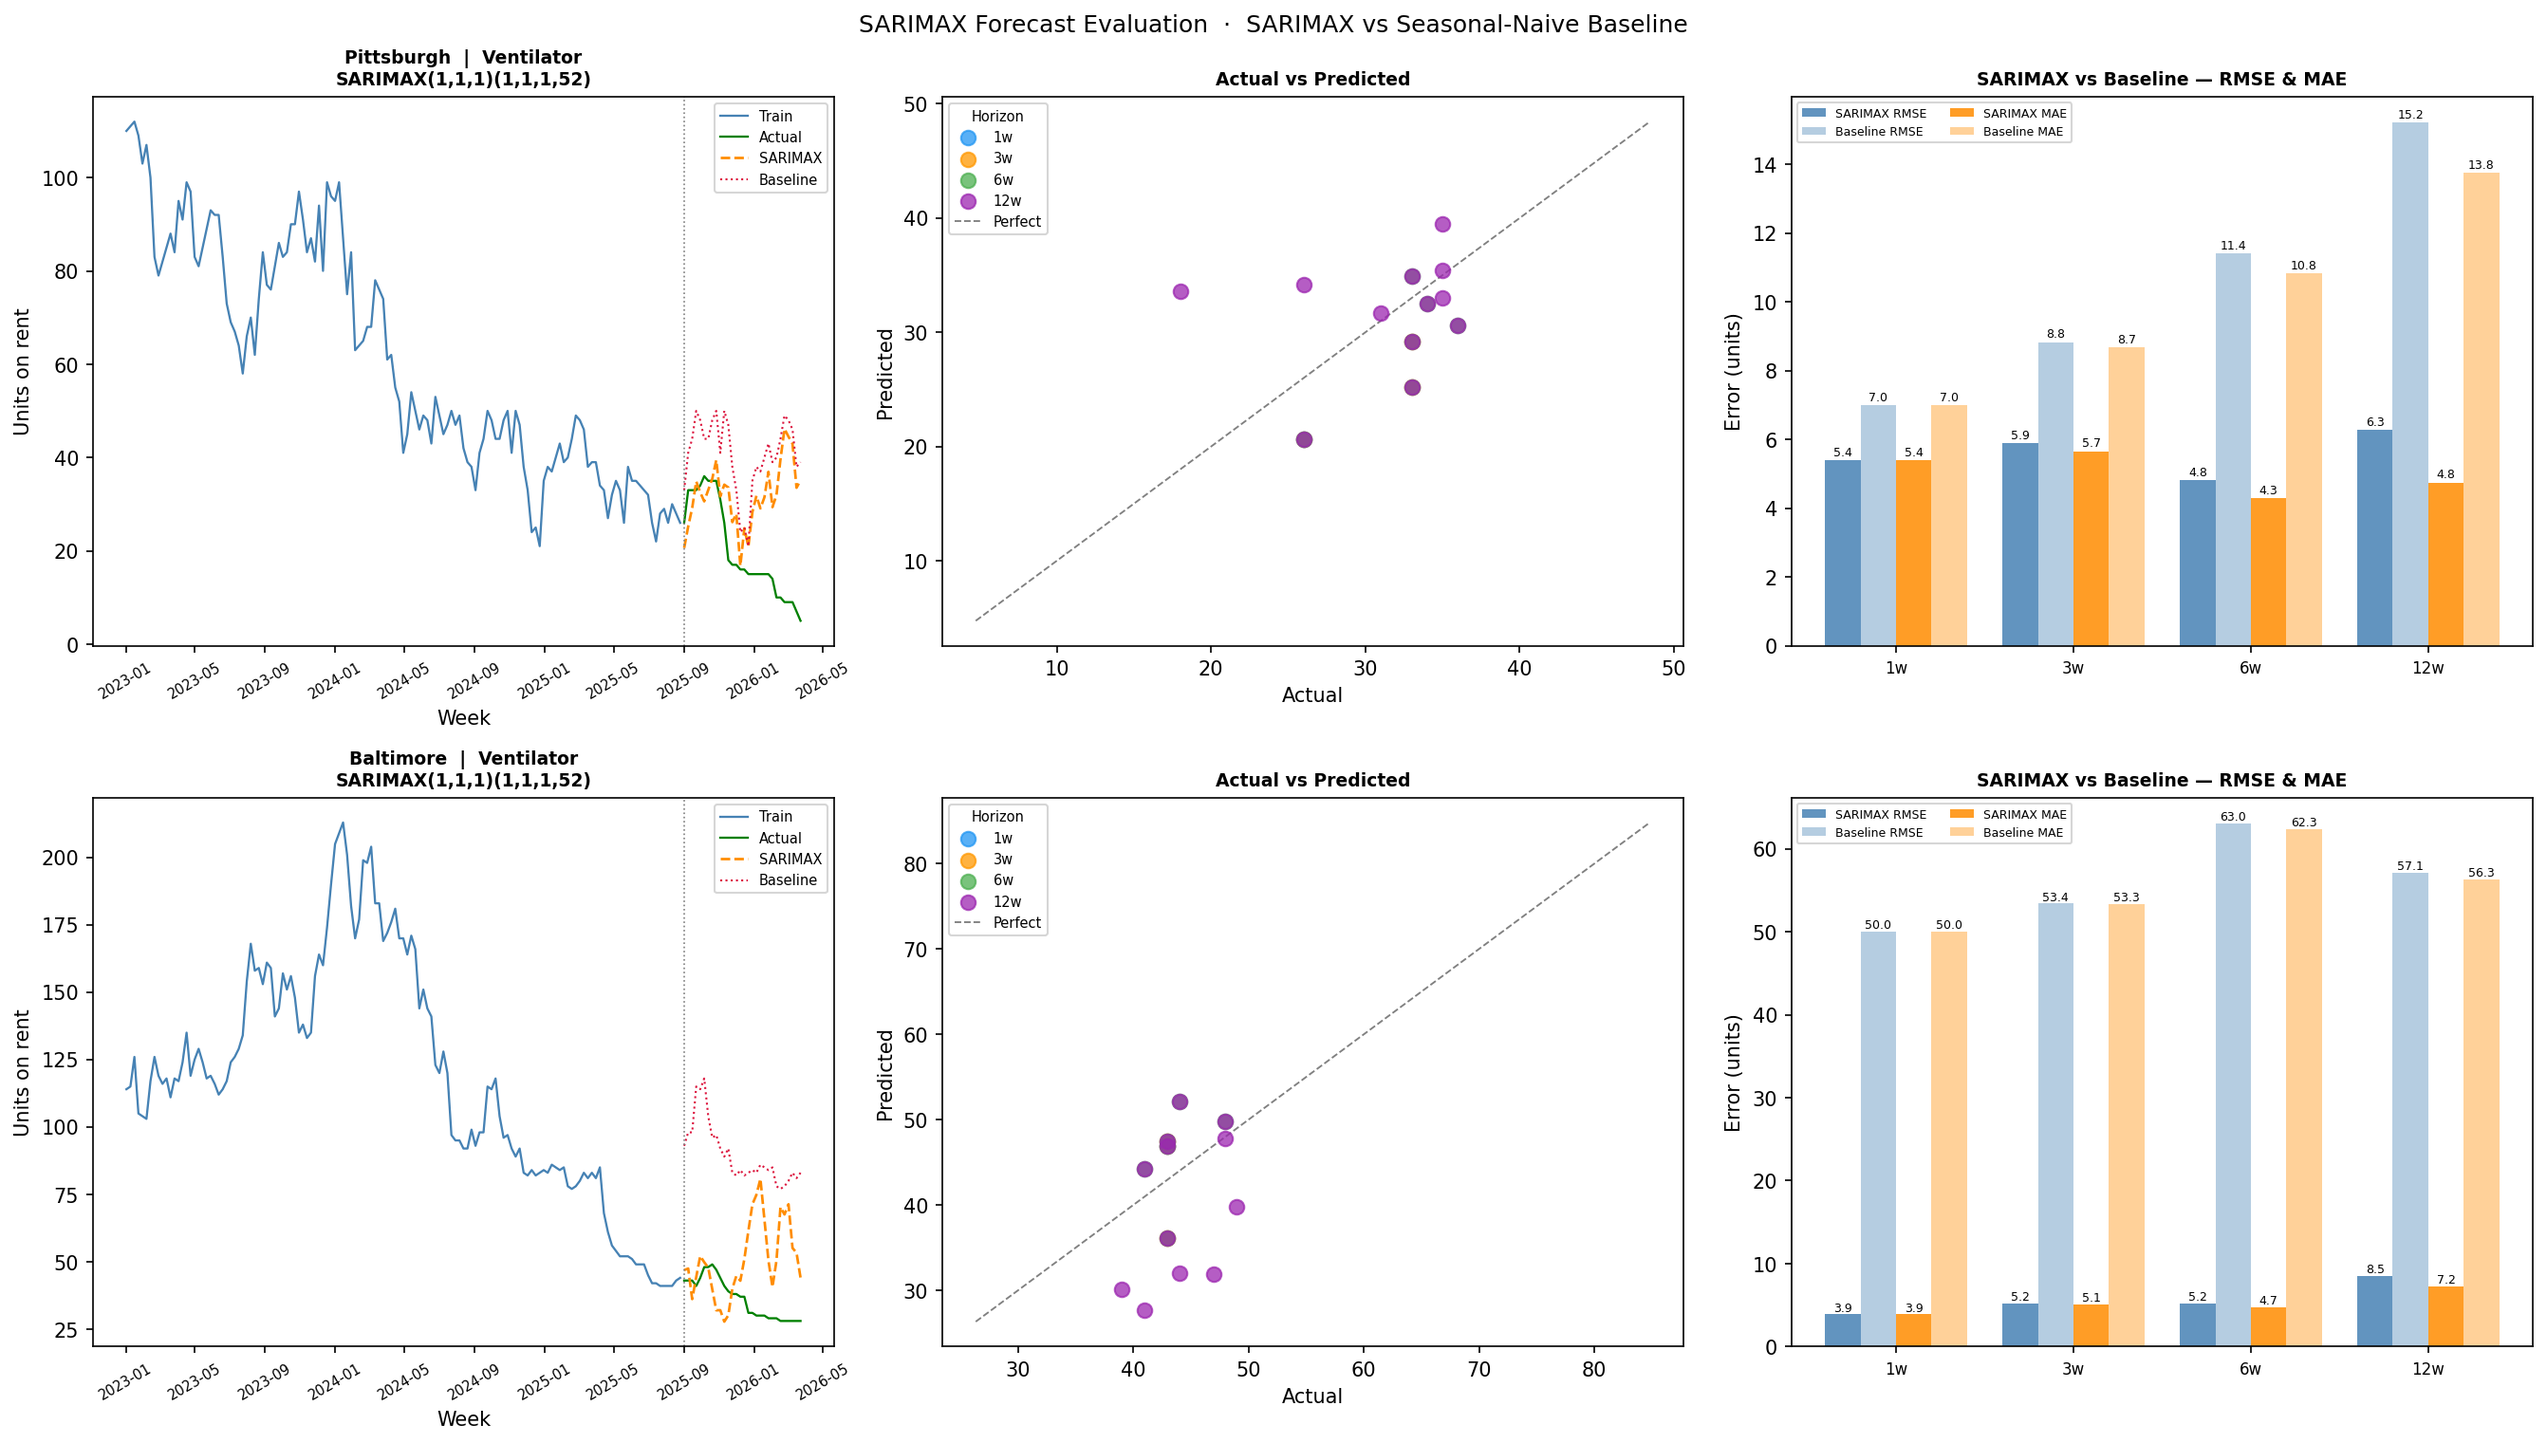
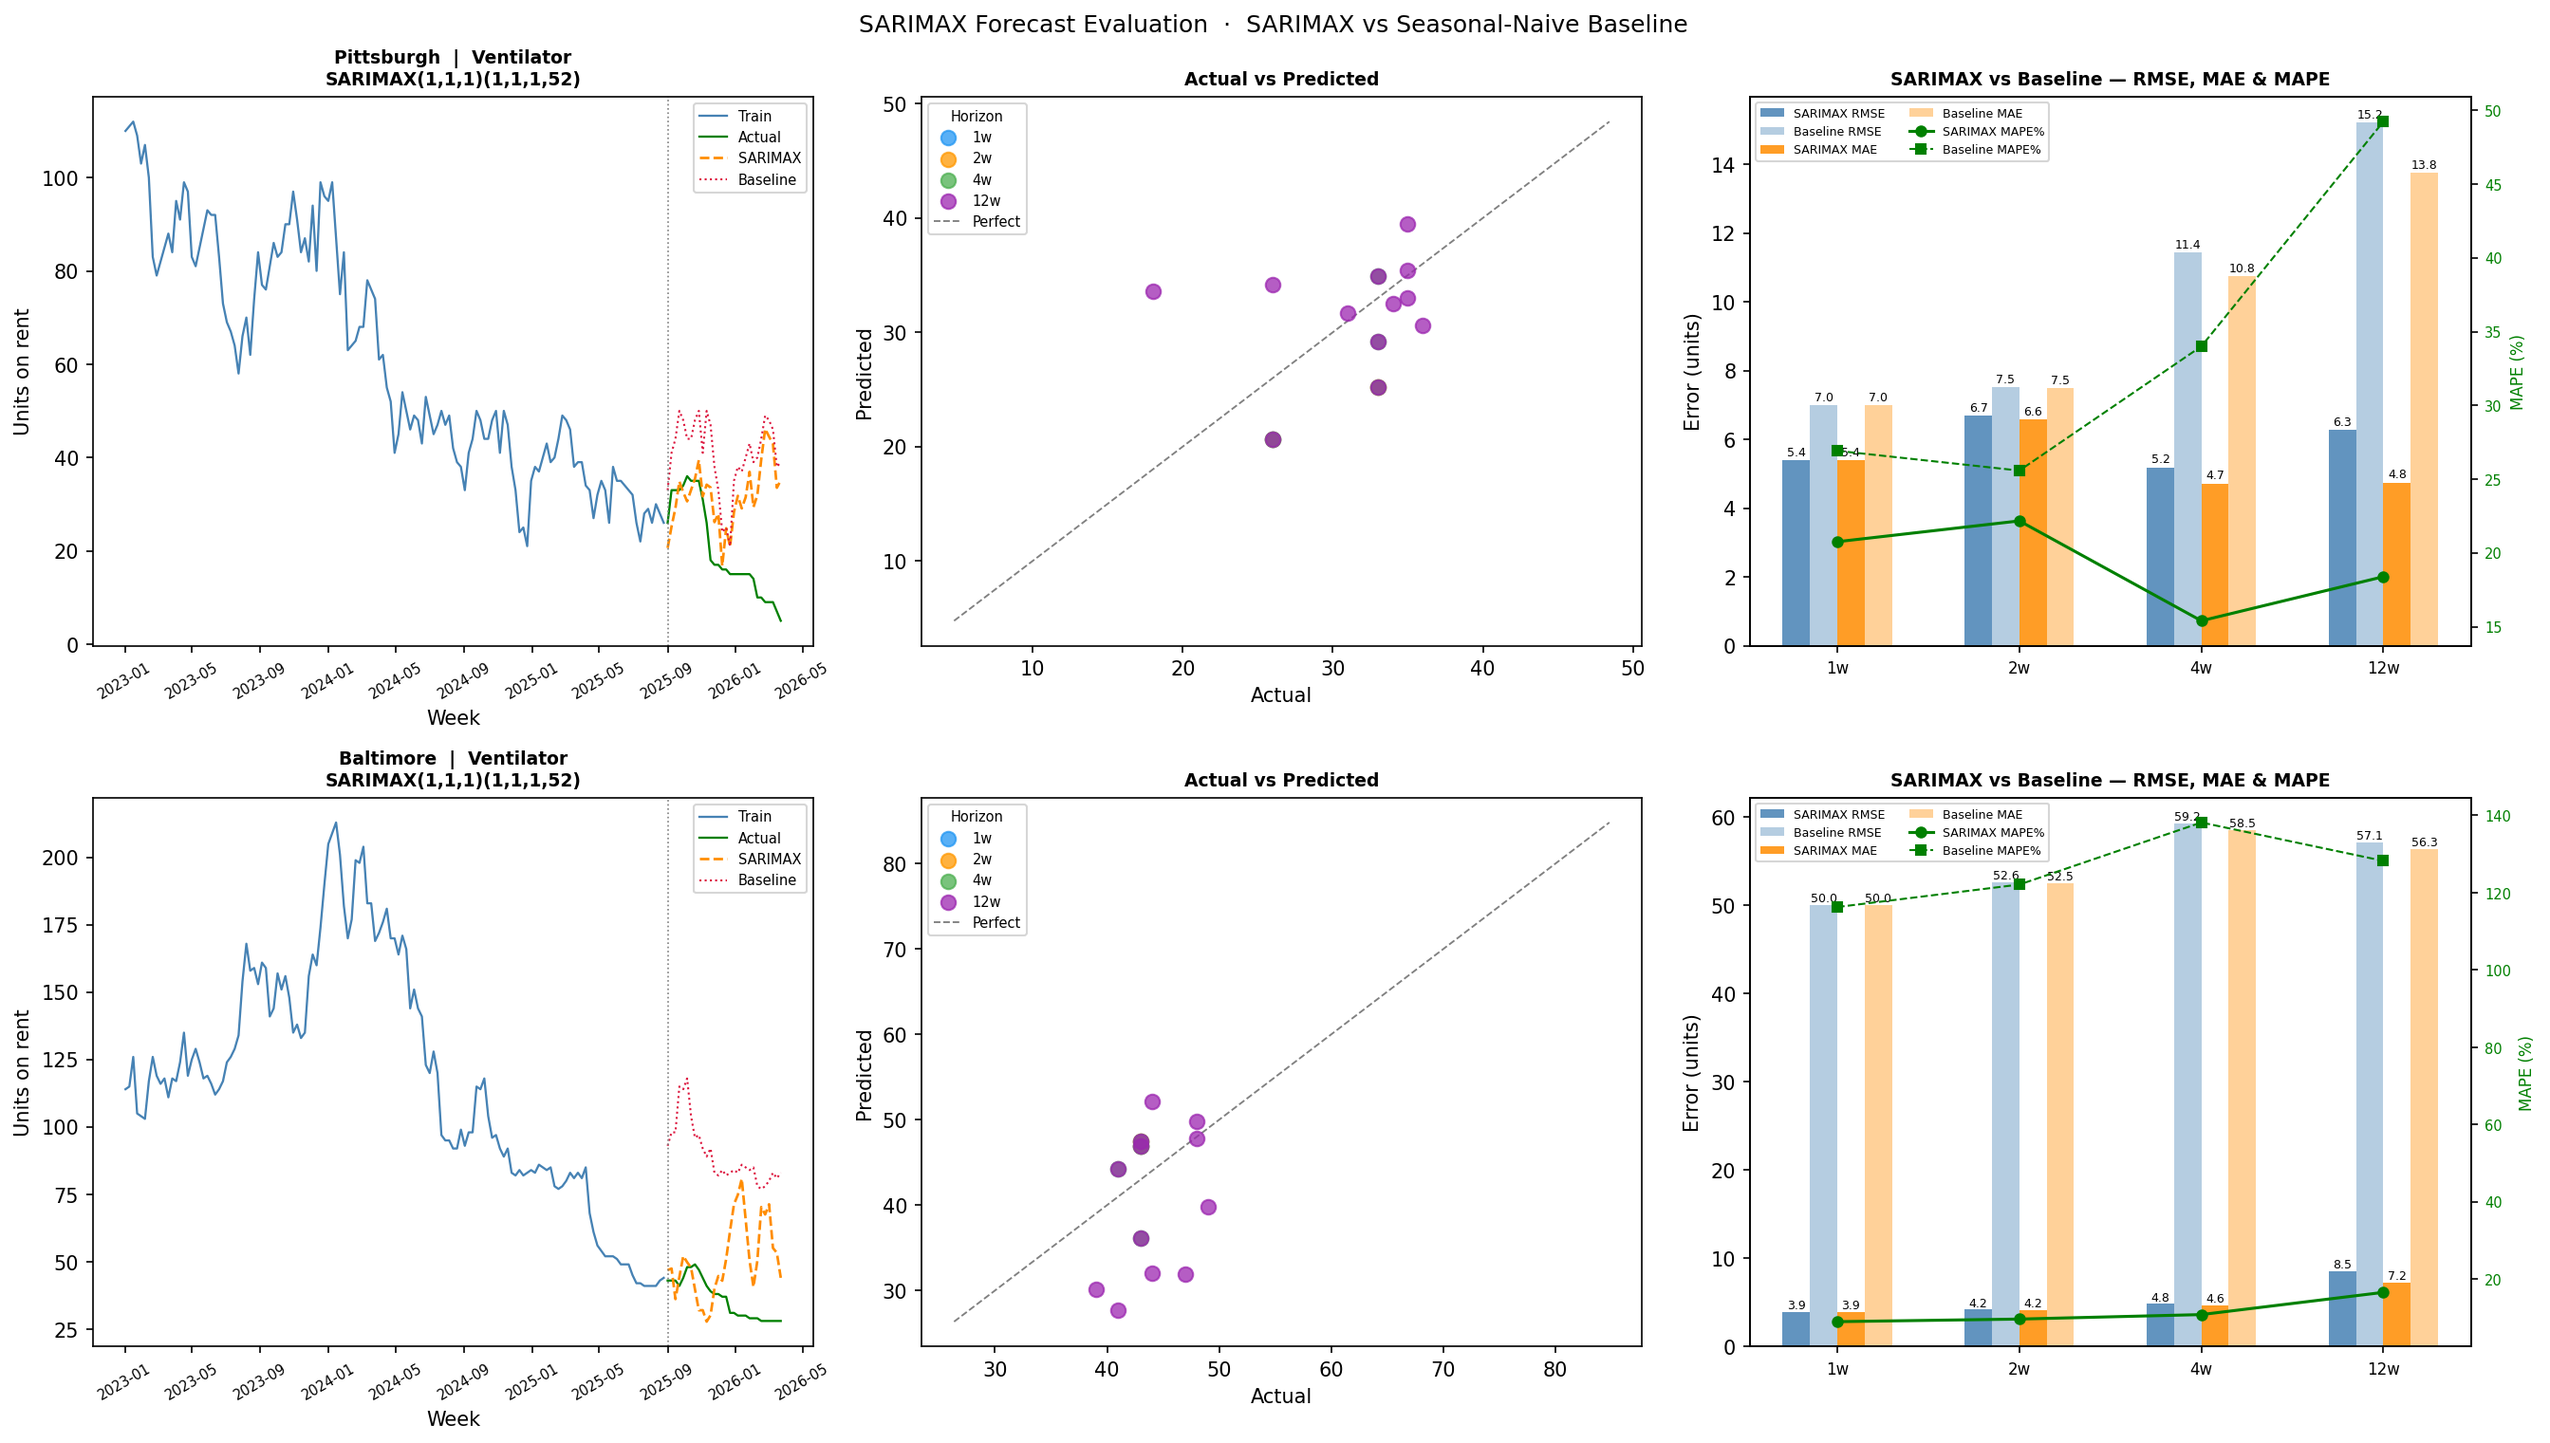
Updated horizons and adding MAPE

diff --git a/final_sarimax.py b/final_sarimax.py
@@ -13,7 +13,7 @@ SUBTYPES       = ["Ventilator"]
 SERIES_START   = "2023-01-01"
 SERIES_END     = "2026-03-24"
 FORECAST_START = "2025-09-01"
-HORIZONS       = [1, 3, 6, 12]
+HORIZONS       = [1, 2, 4, 12]
 MIN_WEEKS_SEASONAL = 104   # need 2 full 52-week cycles for seasonal SARIMAX
 
 DATA_PATH = (
@@ -68,7 +68,10 @@ def seasonal_naive(ts_train, steps, season=52):
 def metrics(actual, pred):
     rmse = np.sqrt(np.mean((actual - pred) ** 2))
     mae  = np.mean(np.abs(actual - pred))
-    return round(rmse, 2), round(mae, 2)
+    # Avoid division by zero — mask out zero actuals
+    mask = actual != 0
+    mape = np.mean(np.abs((actual[mask] - pred[mask]) / actual[mask])) * 100 if mask.any() else np.nan
+    return round(rmse, 2), round(mae, 2), round(mape, 2)
 
 
 # ─────────────────────────────────────────────
@@ -100,19 +103,20 @@ for row, (branch, subtype) in enumerate(combos):
 
     # ── Metrics table ──────────────────────────────────────────
     print(f"  {'Horizon':>8}  {'SARIMAX RMSE':>13}  {'Base RMSE':>10}  "
-          f"{'SARIMAX MAE':>12}  {'Base MAE':>9}")
-    print(f"  {'─'*60}")
+          f"{'SARIMAX MAE':>12}  {'Base MAE':>9}  {'SARIMAX MAPE':>13}  {'Base MAPE':>10}")
+    print(f"  {'─'*90}")
 
     row_metrics = []
     for h in HORIZONS:
         act = ts_test.iloc[:h].values
-        s_rmse, s_mae = metrics(act, fc.iloc[:h].values)
-        b_rmse, b_mae = metrics(act, baseline[:h])
+        s_rmse, s_mae, s_mape = metrics(act, fc.iloc[:h].values)
+        b_rmse, b_mae, b_mape = metrics(act, baseline[:h])
         print(f"  {str(h)+'w':>8}  {s_rmse:>13.2f}  {b_rmse:>10.2f}  "
-              f"{s_mae:>12.2f}  {b_mae:>9.2f}")
+              f"{s_mae:>12.2f}  {b_mae:>9.2f}  {s_mape:>12.2f}%  {b_mape:>9.2f}%")
         entry = dict(Branch=branch, Subtype=subtype, Horizon=f"{h}w",
                      SARIMAX_RMSE=s_rmse, Base_RMSE=b_rmse,
-                     SARIMAX_MAE=s_mae,  Base_MAE=b_mae)
+                     SARIMAX_MAE=s_mae,   Base_MAE=b_mae,
+                     SARIMAX_MAPE=s_mape, Base_MAPE=b_mape)
         all_metrics.append(entry)
         row_metrics.append(entry)
 
@@ -141,13 +145,15 @@ for row, (branch, subtype) in enumerate(combos):
     ax.set_title("Actual vs Predicted", fontsize=9, fontweight="bold")
     ax.legend(fontsize=7, title="Horizon", title_fontsize=7)
 
-    # ── Col 2: RMSE/MAE — SARIMAX vs Baseline ─────────────────
+    # ── Col 2: RMSE/MAE — SARIMAX vs Baseline, MAPE on twin axis ──
     ax = axes[row, 2]
-    x, w = np.arange(len(HORIZONS)), 0.2
+    x, w = np.arange(len(HORIZONS)), 0.15
     s_rmse = [m["SARIMAX_RMSE"] for m in row_metrics]
     b_rmse = [m["Base_RMSE"]    for m in row_metrics]
     s_mae  = [m["SARIMAX_MAE"]  for m in row_metrics]
     b_mae  = [m["Base_MAE"]     for m in row_metrics]
+    s_mape = [m["SARIMAX_MAPE"] for m in row_metrics]
+    b_mape = [m["Base_MAPE"]    for m in row_metrics]
 
     ax.bar(x - 1.5*w, s_rmse, w, color="steelblue",  alpha=0.85, label="SARIMAX RMSE")
     ax.bar(x - 0.5*w, b_rmse, w, color="steelblue",  alpha=0.40, label="Baseline RMSE")
@@ -159,10 +165,22 @@ for row, (branch, subtype) in enumerate(combos):
         for xp, v in zip(offsets, vals):
             ax.text(xp, v + 0.05, f"{v:.1f}", ha="center", va="bottom", fontsize=6)
 
+    # MAPE on twin axis (percentage scale separate from unit-based errors)
+    ax2 = ax.twinx()
+    ax2.plot(x, s_mape, color="green", marker="o", lw=1.5, ms=5, label="SARIMAX MAPE%")
+    ax2.plot(x, b_mape, color="green", marker="s", lw=1.0, ms=5, ls="--", label="Baseline MAPE%")
+    ax2.set_ylabel("MAPE (%)", color="green", fontsize=8)
+    ax2.tick_params(axis="y", labelcolor="green", labelsize=7)
+
     ax.set_xticks(x); ax.set_xticklabels([f"{h}w" for h in HORIZONS], fontsize=8)
     ax.set_ylabel("Error (units)")
-    ax.set_title("SARIMAX vs Baseline — RMSE & MAE", fontsize=9, fontweight="bold")
-    ax.legend(fontsize=6, ncol=2); ax.set_ylim(bottom=0)
+    ax.set_title("SARIMAX vs Baseline — RMSE, MAE & MAPE", fontsize=9, fontweight="bold")
+
+    # Combine legends from both axes
+    lines1, labels1 = ax.get_legend_handles_labels()
+    lines2, labels2 = ax2.get_legend_handles_labels()
+    ax.legend(lines1 + lines2, labels1 + labels2, fontsize=6, ncol=2)
+    ax.set_ylim(bottom=0)
 
 # ─────────────────────────────────────────────
 # SUMMARY
